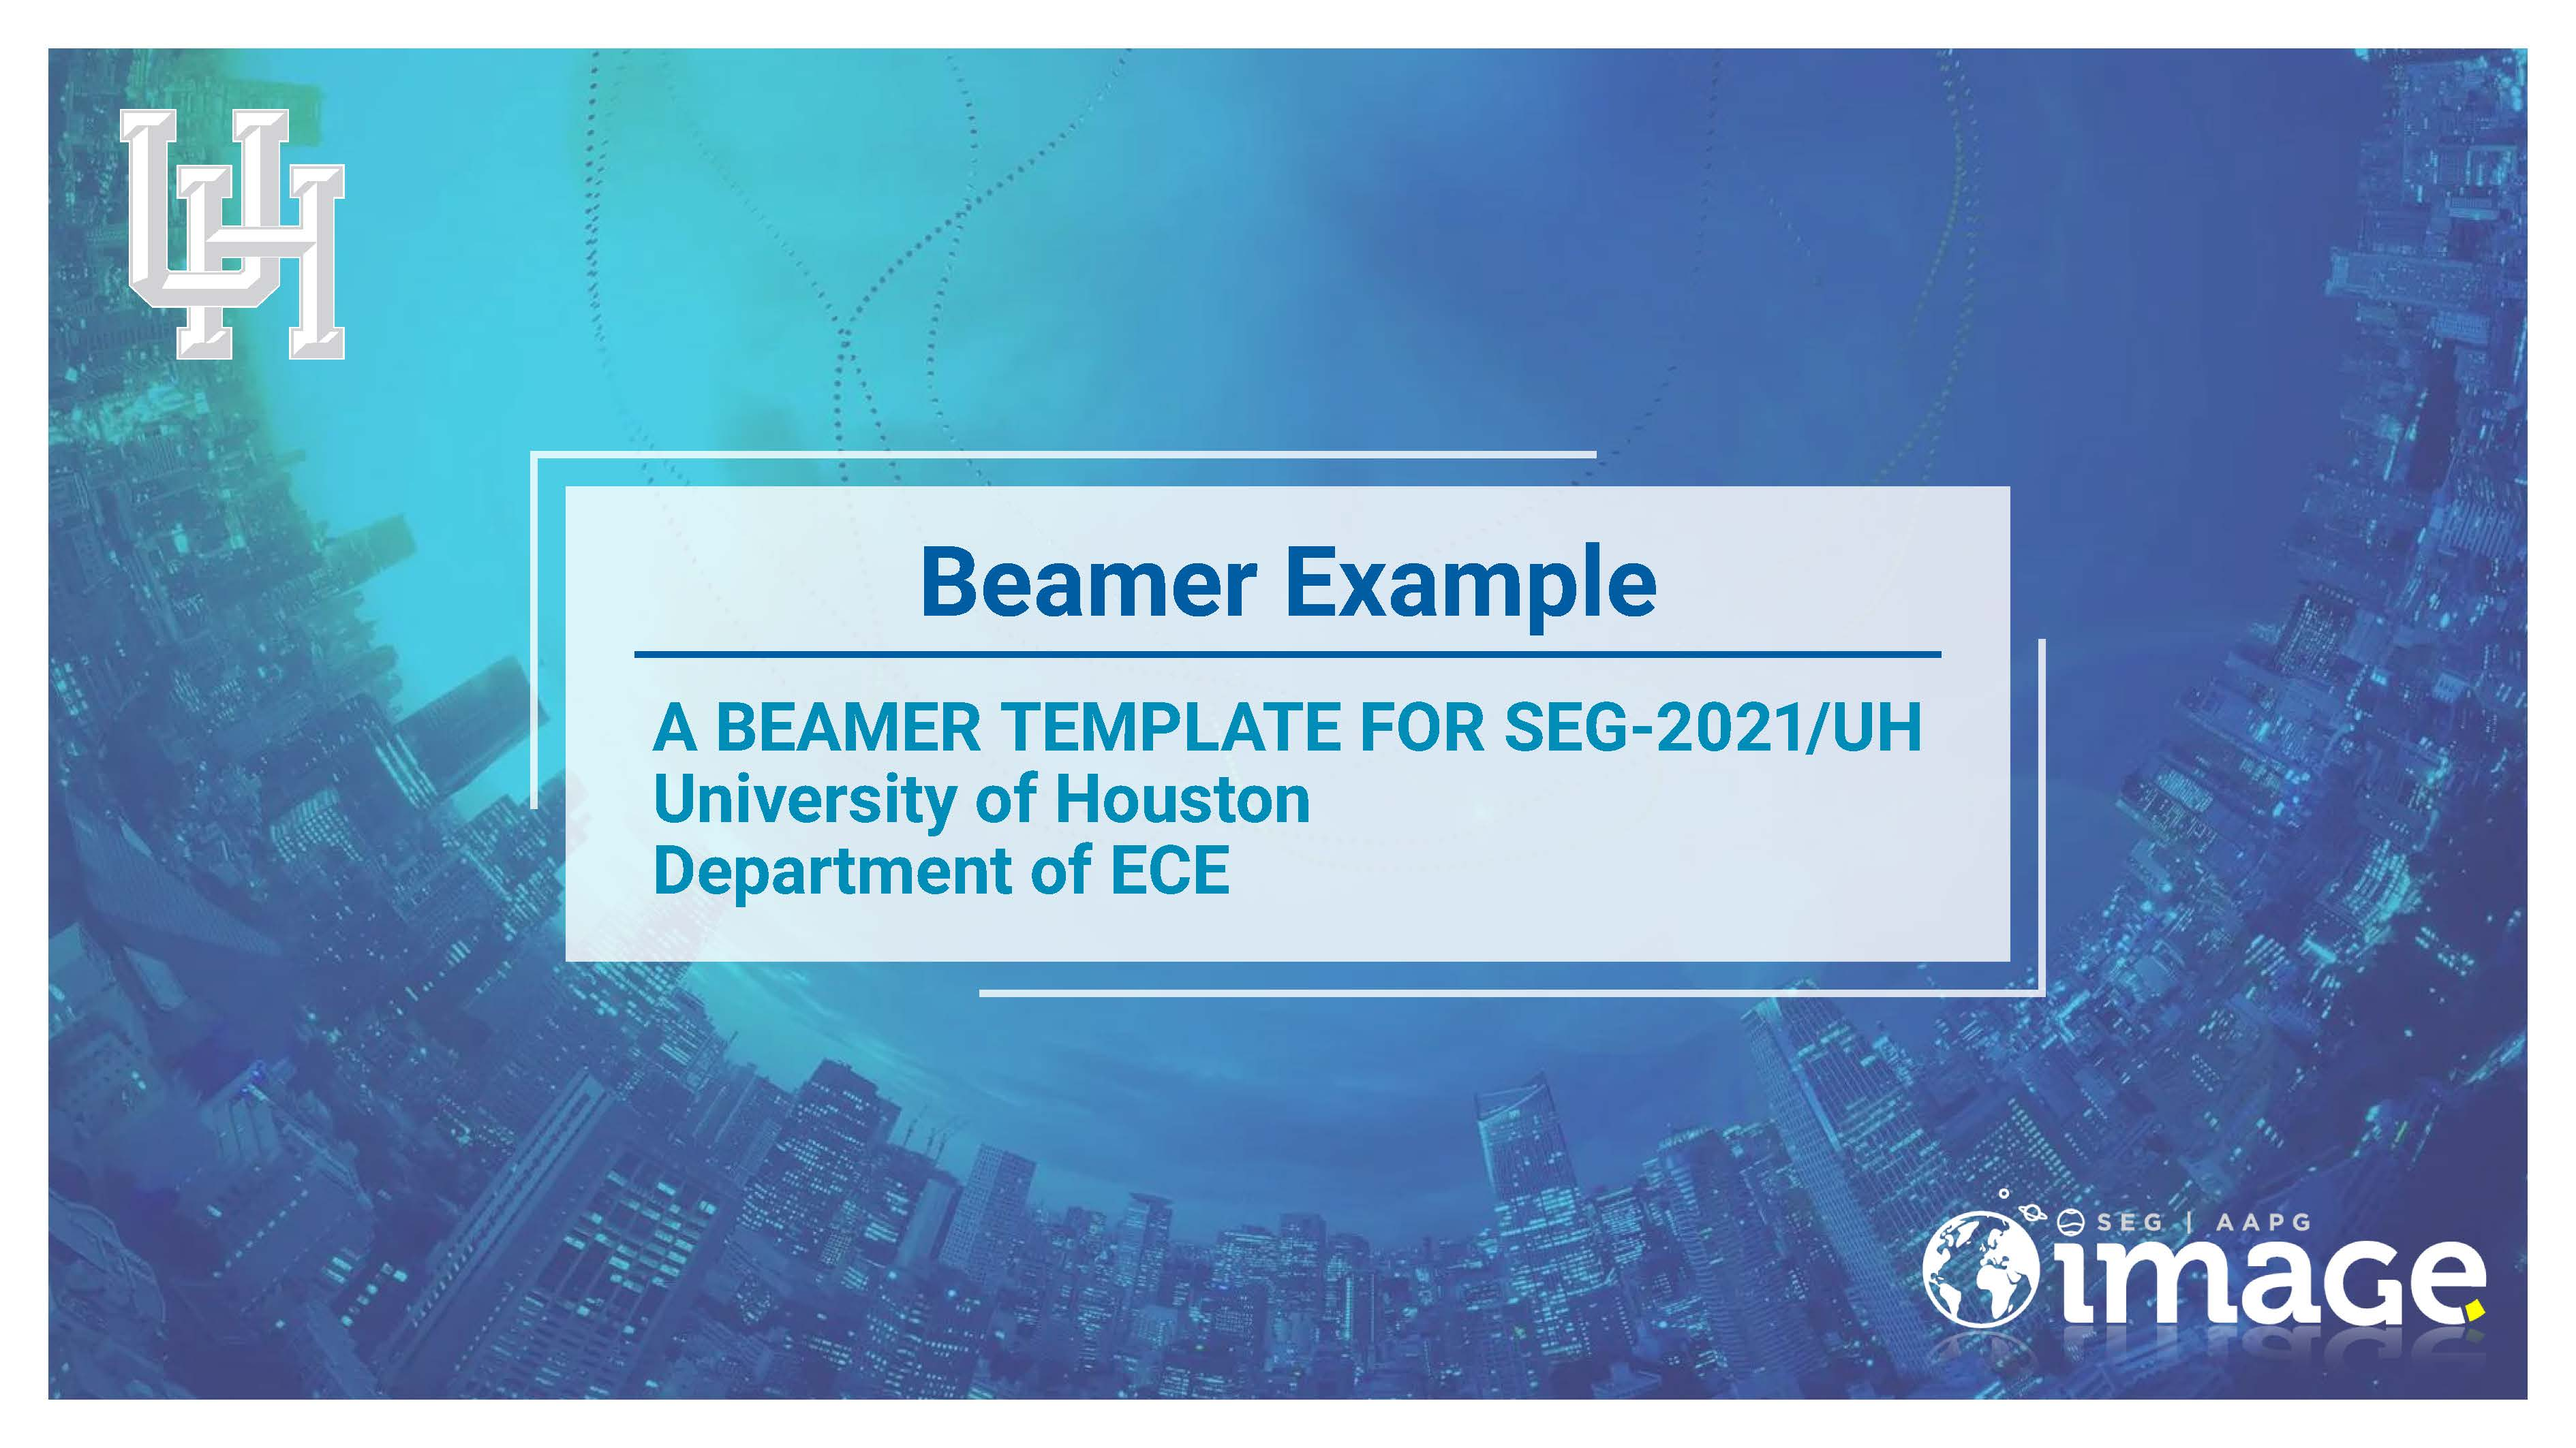
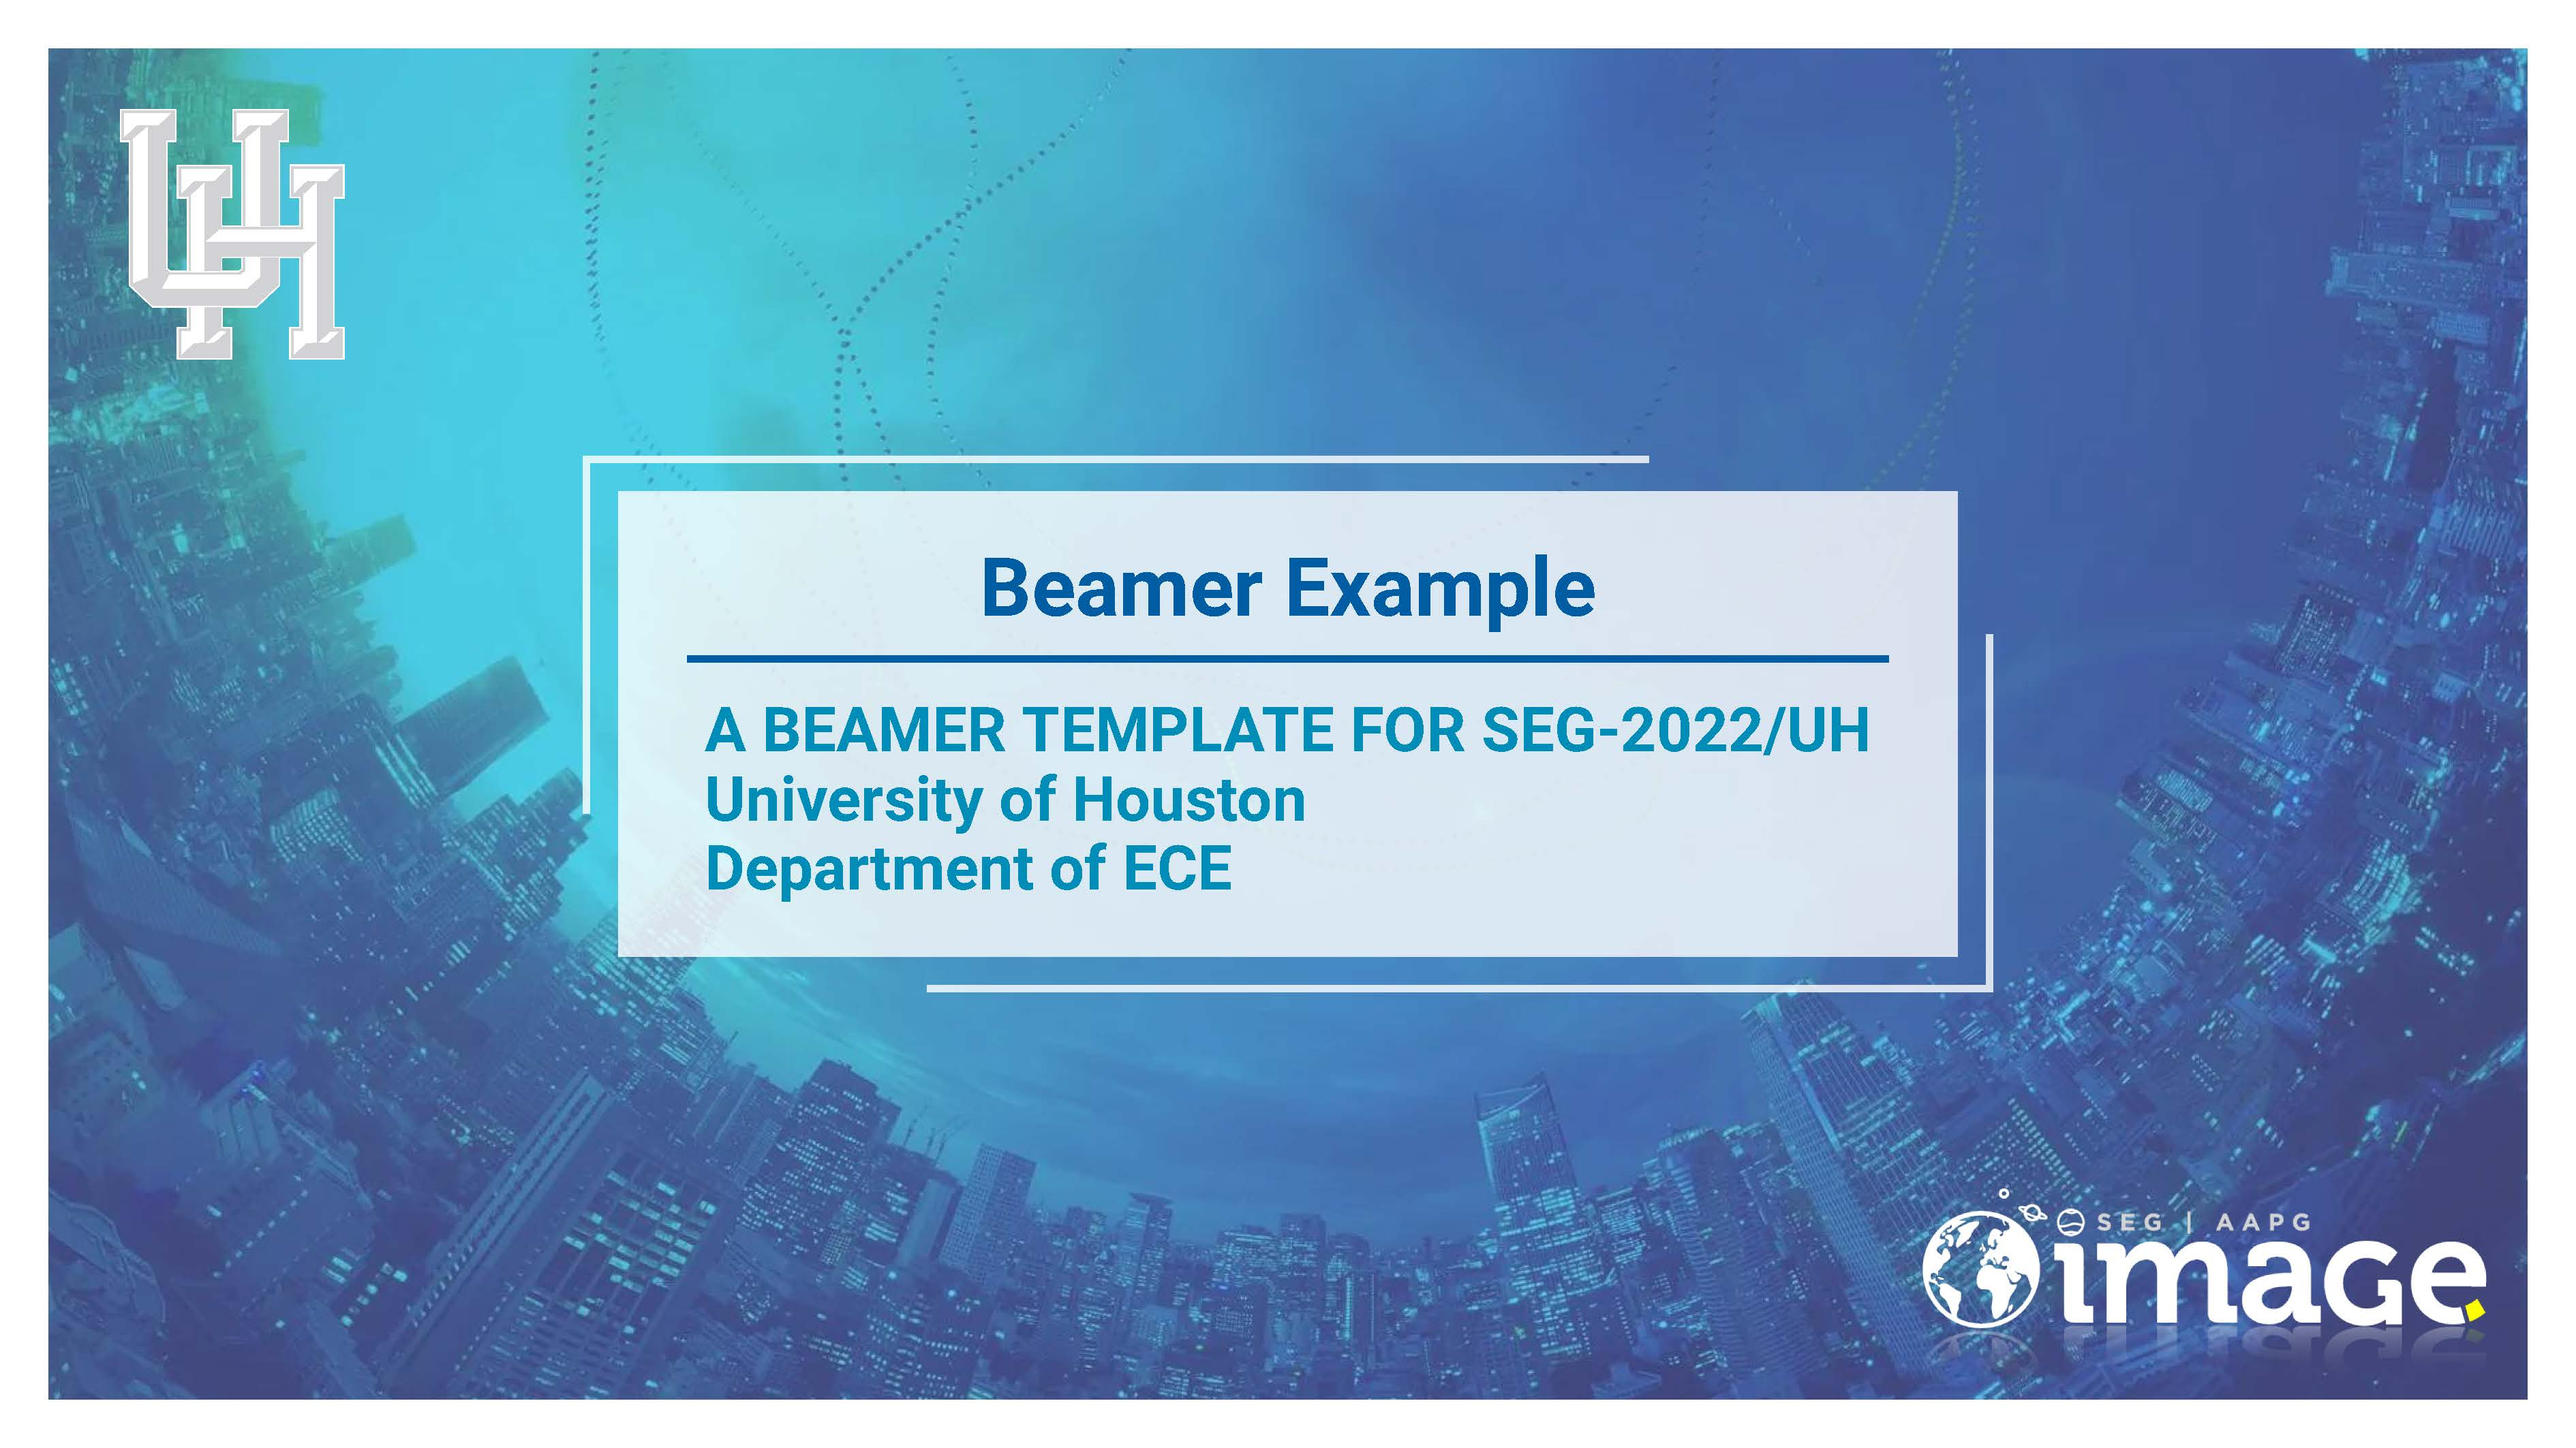
2022
1. Fix font bugs when using 2021 style.
2. Fix the default configs in `demo.tex`.

Changed region(s): [[0.1873, 0.3104, 0.8116, 0.714]]

diff --git a/demo.tex b/demo.tex
@@ -22,11 +22,12 @@
 %\setFirstLogo{seg-2022.png} % If not set, we would use seg-202x.png
 %\setSecondLogo{seg-2021.png} % If not set, the second logo would be left blank.
 \author{Yuchen Jin}
-\subtitle{A beamer template for SEG-2021/UH}
+\subtitle{A beamer template for SEG-2022/UH}
 \date{\today} % Could be replaced by a manually specified date: \DTMdate{YYYY-MM-DD}
 %\date{\DTMdate{2022-09-02}}
 \institute[Department of ECE]{University of Houston\\Department of ECE}
 
+%\AtBeginSection[]{}
 \AtBeginSection[]
 {
   \begin{frame}<beamer> % with <beamer> => doesn't appear in handout mode
